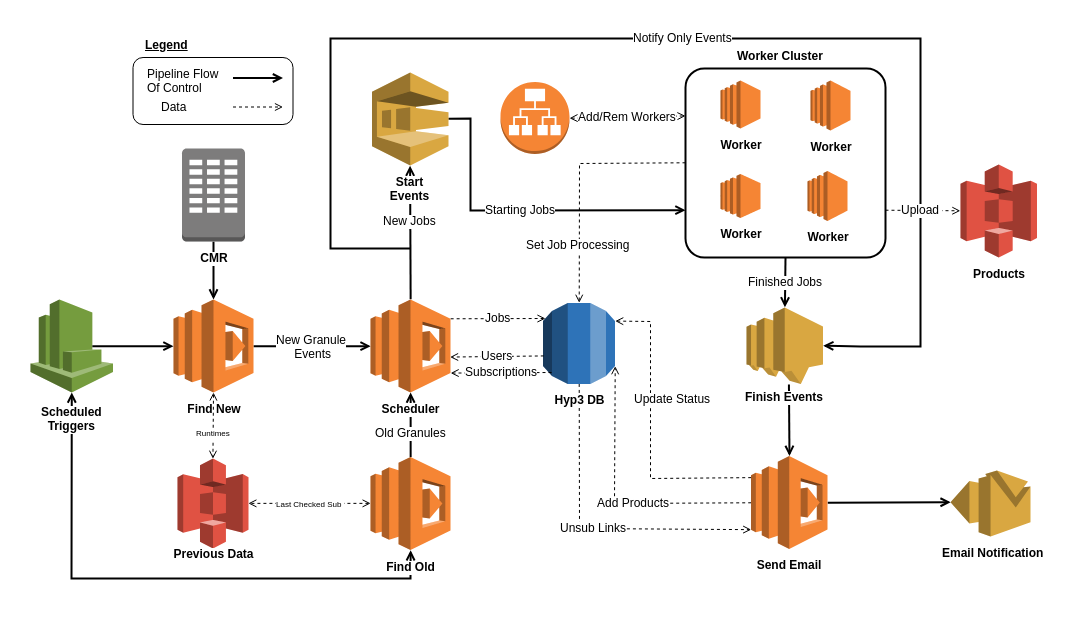
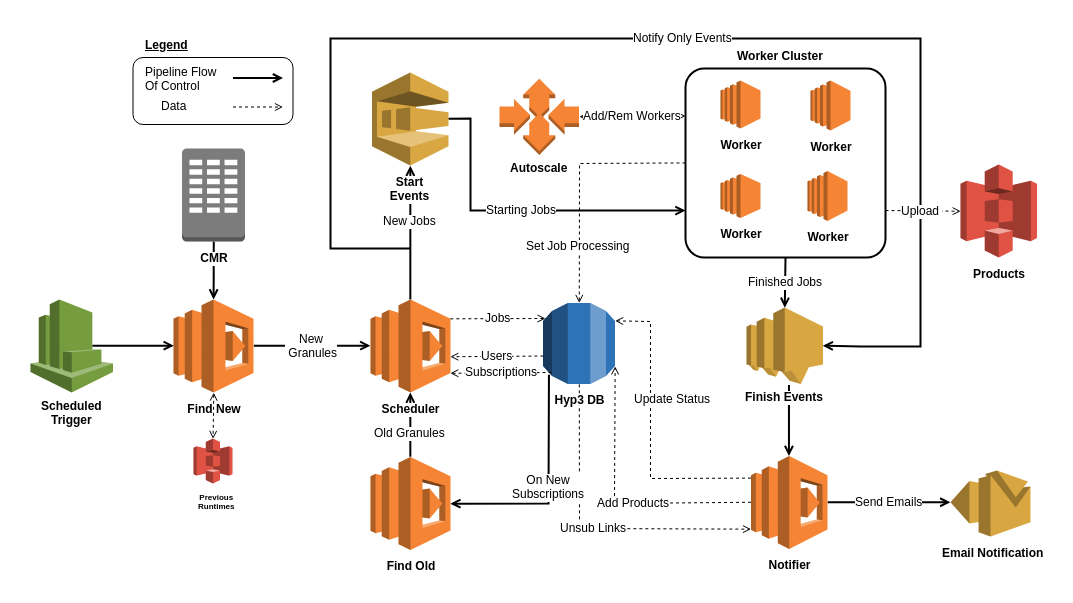
Revert "Testing lambda sg fix"

diff --git a/lambdas/scheduler/src/events/make.py b/lambdas/scheduler/src/events/make.py
@@ -10,7 +10,7 @@ def make_new_granule_events_with(new_granule_dicts):
     return events
 
 
-def make_from(email_packages):
+def make_notify_events(email_packages):
     """ make email packages into notify only events
 
         :param list(tuple): email packages of the form (sub, user, granule)
@@ -19,21 +19,14 @@ def make_from(email_packages):
         :rtype: list[hyp3_events.NotifyOnlyEvent]
     """
     events = [
-        make_event(sub, user, granule) for
+        make_notify_event(sub, user, granule) for
         sub, user, granule in email_packages
     ]
 
-    return list(filter(lambda e: e is not None, events))
+    return events
 
 
-def make_event(sub, user, granule):
-    if sub.process_id == 1:
-        return make_notify_only_event(sub, user, granule)
-
-    return make_start_event(sub, user, granule)
-
-
-def make_notify_only_event(sub, user, granule):
+def make_notify_event(sub, user, granule):
     return hyp3_events.NotifyOnlyEvent(
         address=user.email,
         subject='New Subscription Data',
@@ -50,7 +43,3 @@ def make_notify_only_event(sub, user, granule):
         browse_url='',
         download_url=granule.download_url
     )
-
-
-def make_start_event(sub, user, granule):
-    return hyp3_events.StartEvent()

diff --git a/lambdas/scheduler/src/scheduler_main.py b/lambdas/scheduler/src/scheduler_main.py
@@ -1,28 +1,27 @@
 
 import json
 
-import dispatch
 import events
 import schedule
 
 
 def scheduler(event):
-    """ Wrapper around scheduler lambda that can be imported by pytest."""
-    granules = event['new_granules']
-    new_granule_events = events.make_new_granule_events_with(granules)
+    """
+        Wrapper around scheduler lambda that can be imported by
+        pytest correctly
+    """
+    new_granule_dicts = event['new_granules']
+    new_granule_events = events.make_new_granule_events_with(new_granule_dicts)
 
     print('Scheduling hyp3_jobs')
     print(json.dumps([g.name for g in new_granule_events]))
 
     job_packages = schedule.hyp3_jobs(new_granule_events)
-
     print('Found {} jobs to start'.format(len(job_packages)))
+
     print('Making notify only events')
+    notify_only_events = events.make_notify_events(job_packages)
 
-    new_hyp3_events = events.make_from(job_packages)
-
-    print('Sending {} new events'.format(len(new_hyp3_events)))
-
-    dispatch.new_events(new_hyp3_events)
-
-    print('Done!')
+    print('Sending {} notify events'.format(len(notify_only_events)))
+    print('Sending...')
+    events.send(notify_only_events)

diff --git a/cloudformation/tropo/templates/hyp3_scheduler.py b/cloudformation/tropo/templates/hyp3_scheduler.py
@@ -8,8 +8,6 @@ Troposphere template responsible for generating :ref:`scheduler_lambda`
 Requires
 ~~~~~~~~
 * :ref:`sns_template`
-* :ref:`kms_key_template`
-* :ref:`db_params_template`
 
 Resources
 ~~~~~~~~~
@@ -33,7 +31,6 @@ from template import t
 from . import utils
 from .hyp3_sns import finish_sns
 from .hyp3_db_params import db_pass, db_user, db_name
-from .hyp3_kms_key import kms_key
 
 source_zip = "scheduler.zip"
 
@@ -92,7 +89,6 @@ scheduler_args = {
             'DB_PASSWORD': Ref(db_pass),
             'DB_NAME': Ref(db_name)
         }),
-    "KmsKeyArn": GetAtt(kms_key, "Arn"),
     "MemorySize": 128,
     "Timeout": 300
 }
@@ -100,13 +96,12 @@ scheduler_args = {
 if 'test' in environment.maturity:
     scheduler_args['VpcConfig'] = VPCConfig(
         SecurityGroupIds=[
-            'sg-0d8cdb7c',
-            'sg-72f8c803'
+            'sg-0d8cdb7c'
         ],
         SubnetIds=[
-            'subnet-e3495984',
-            'subnet-77ecc73e',
-            'subnet-2efd4975'
+            'subnet-dc7dcaab',
+            'subnet-c78f1ea2',
+            'subnet-b66fa5ef'
         ]
     )
 

diff --git a/lambdas/find_new_granules/src/lambda_function.py b/lambdas/find_new_granules/src/lambda_function.py
@@ -15,22 +15,14 @@ def lambda_handler(event, context):
     setup_env()
 
     search_results = find_new.granules()
+
     new_granule_events = results.package(search_results)
-
-    if not any_new_granules(new_granule_events):
-        print('No new granules. Done.')
-        return
-
     events_json = results.format_into_json(new_granule_events)
+
     start_scheduler_with(events_json)
 
 
-def any_new_granules(granules):
-    return len(granules) > 1
-
-
 def start_scheduler_with(new_granules_json):
-    print('Scheduling job')
     boto3.client('lambda').invoke(
         FunctionName=find_new.environment.scheduler_lambda,
         InvocationType='Event',

diff --git a/lambdas/scheduler/tests/test_events.py b/lambdas/scheduler/tests/test_events.py
@@ -25,8 +25,9 @@ def test_make_new_granule_events(granule_events):
 def test_events():
     packages = utils.load_email_packages()
 
-    new_events = events.make_from(packages)
+    notify_events = events.make_notify_events(packages)
 
-    assert isinstance(new_events, list)
-    for event in new_events:
+    assert isinstance(notify_events, list)
+    for event in notify_events:
         assert isinstance(event, hyp3_events.Hyp3Event)
+        assert isinstance(event, hyp3_events.NotifyOnlyEvent)

diff --git a/lambdas/scheduler/src/schedule/queries.py b/lambdas/scheduler/src/schedule/queries.py
@@ -31,10 +31,10 @@ def get_enabled_intersecting_subs(db, polygon):
         :rtype: list[hyp3_db.hyp3_models.Subscription]
     """
     poly = WKTElement(polygon, srid=4326)
-    intersecting = Subscription.location.intersects(poly)
+    intersection = Subscription.location.ST_Intersects(poly)
 
     intersecting_subs = enabled_subs_query(db) \
-        .filter(intersecting) \
+        .filter(intersection) \
         .all()
 
     return intersecting_subs

diff --git a/lambdas/scheduler/src/events/__init__.py b/lambdas/scheduler/src/events/__init__.py
@@ -3,6 +3,7 @@ This module is to give communication between the hyp3 system functions some
 amount of type safety.
 """
 
-from .make import make_from, make_new_granule_events_with
+from .make import make_notify_events, make_new_granule_events_with
+from .send import send
 
-__all__ = ['make_from', 'make_new_granule_events_with']
+__all__ = ['make_notify_events', 'make_new_granule_events_with', 'send']

diff --git a/lambdas/scheduler/src/events/send.py b/lambdas/scheduler/src/events/send.py
@@ -1,0 +1,17 @@
+from . import sns
+
+
+def send(events):
+    """ Send sns messages for a list of events
+
+        :param list[Hyp3Event] events: Hyp3 events to send off
+    """
+    for event in events:
+        subject, json_payload = event.event_type, event.to_json()
+
+        resp = sns.push(
+            subject=subject,
+            payload=json_payload
+        )
+
+        print(resp)

diff --git a/modules/hyp3_events/src/hyp3_events/start_event.py b/modules/hyp3_events/src/hyp3_events/start_event.py
@@ -1,10 +1,3 @@
-from .hyp3_event import Hyp3Event
 
-
-class StartEvent(Hyp3Event):
-    @property
-    def event_type(self):
-        return 'Hyp3NewGranuleEvent'
-
-    def to_dict(self):
-        return {}
+class StartEvent:
+    pass

diff --git a/lambdas/scheduler/tests/test_scheduler.py b/lambdas/scheduler/tests/test_scheduler.py
@@ -12,7 +12,7 @@ import scheduler_main
 
 
 @skip_if_creds_not_available
-@mock.patch('dispatch.sns.push')
+@mock.patch('events.sns.push')
 def test_scheduler_main(sns_mock):
     event = utils.load_testing_granules()
 

diff --git a/cloudformation/tropo/templates/hyp3_db_params.py b/cloudformation/tropo/templates/hyp3_db_params.py
@@ -1,7 +1,3 @@
-"""
-Troposphere template responsible for adding parameters for entering
-data base credentials.
-"""
 
 from troposphere import Parameter
 
